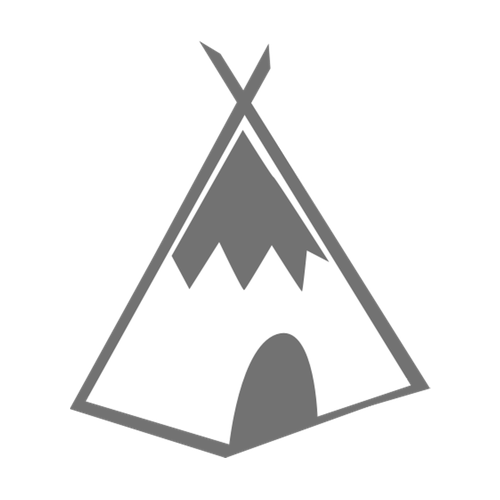
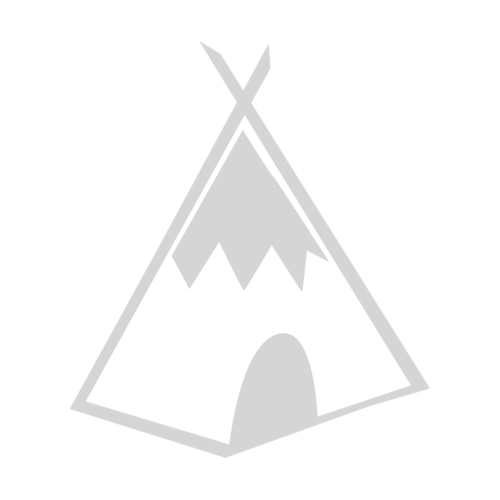
Make the placeholder image fainter

Changed region(s): [[0.12, 0.09, 0.87, 0.93]]

diff --git a/_site/css/main.css b/_site/css/main.css
@@ -331,7 +331,7 @@ a#github-fork img {
 }
 
 .sponsors-3 .sponsor {
-	width: 14.3%;
+	width: 14.25%;
 	height: 80px;
 	text-align: justify;
 }
